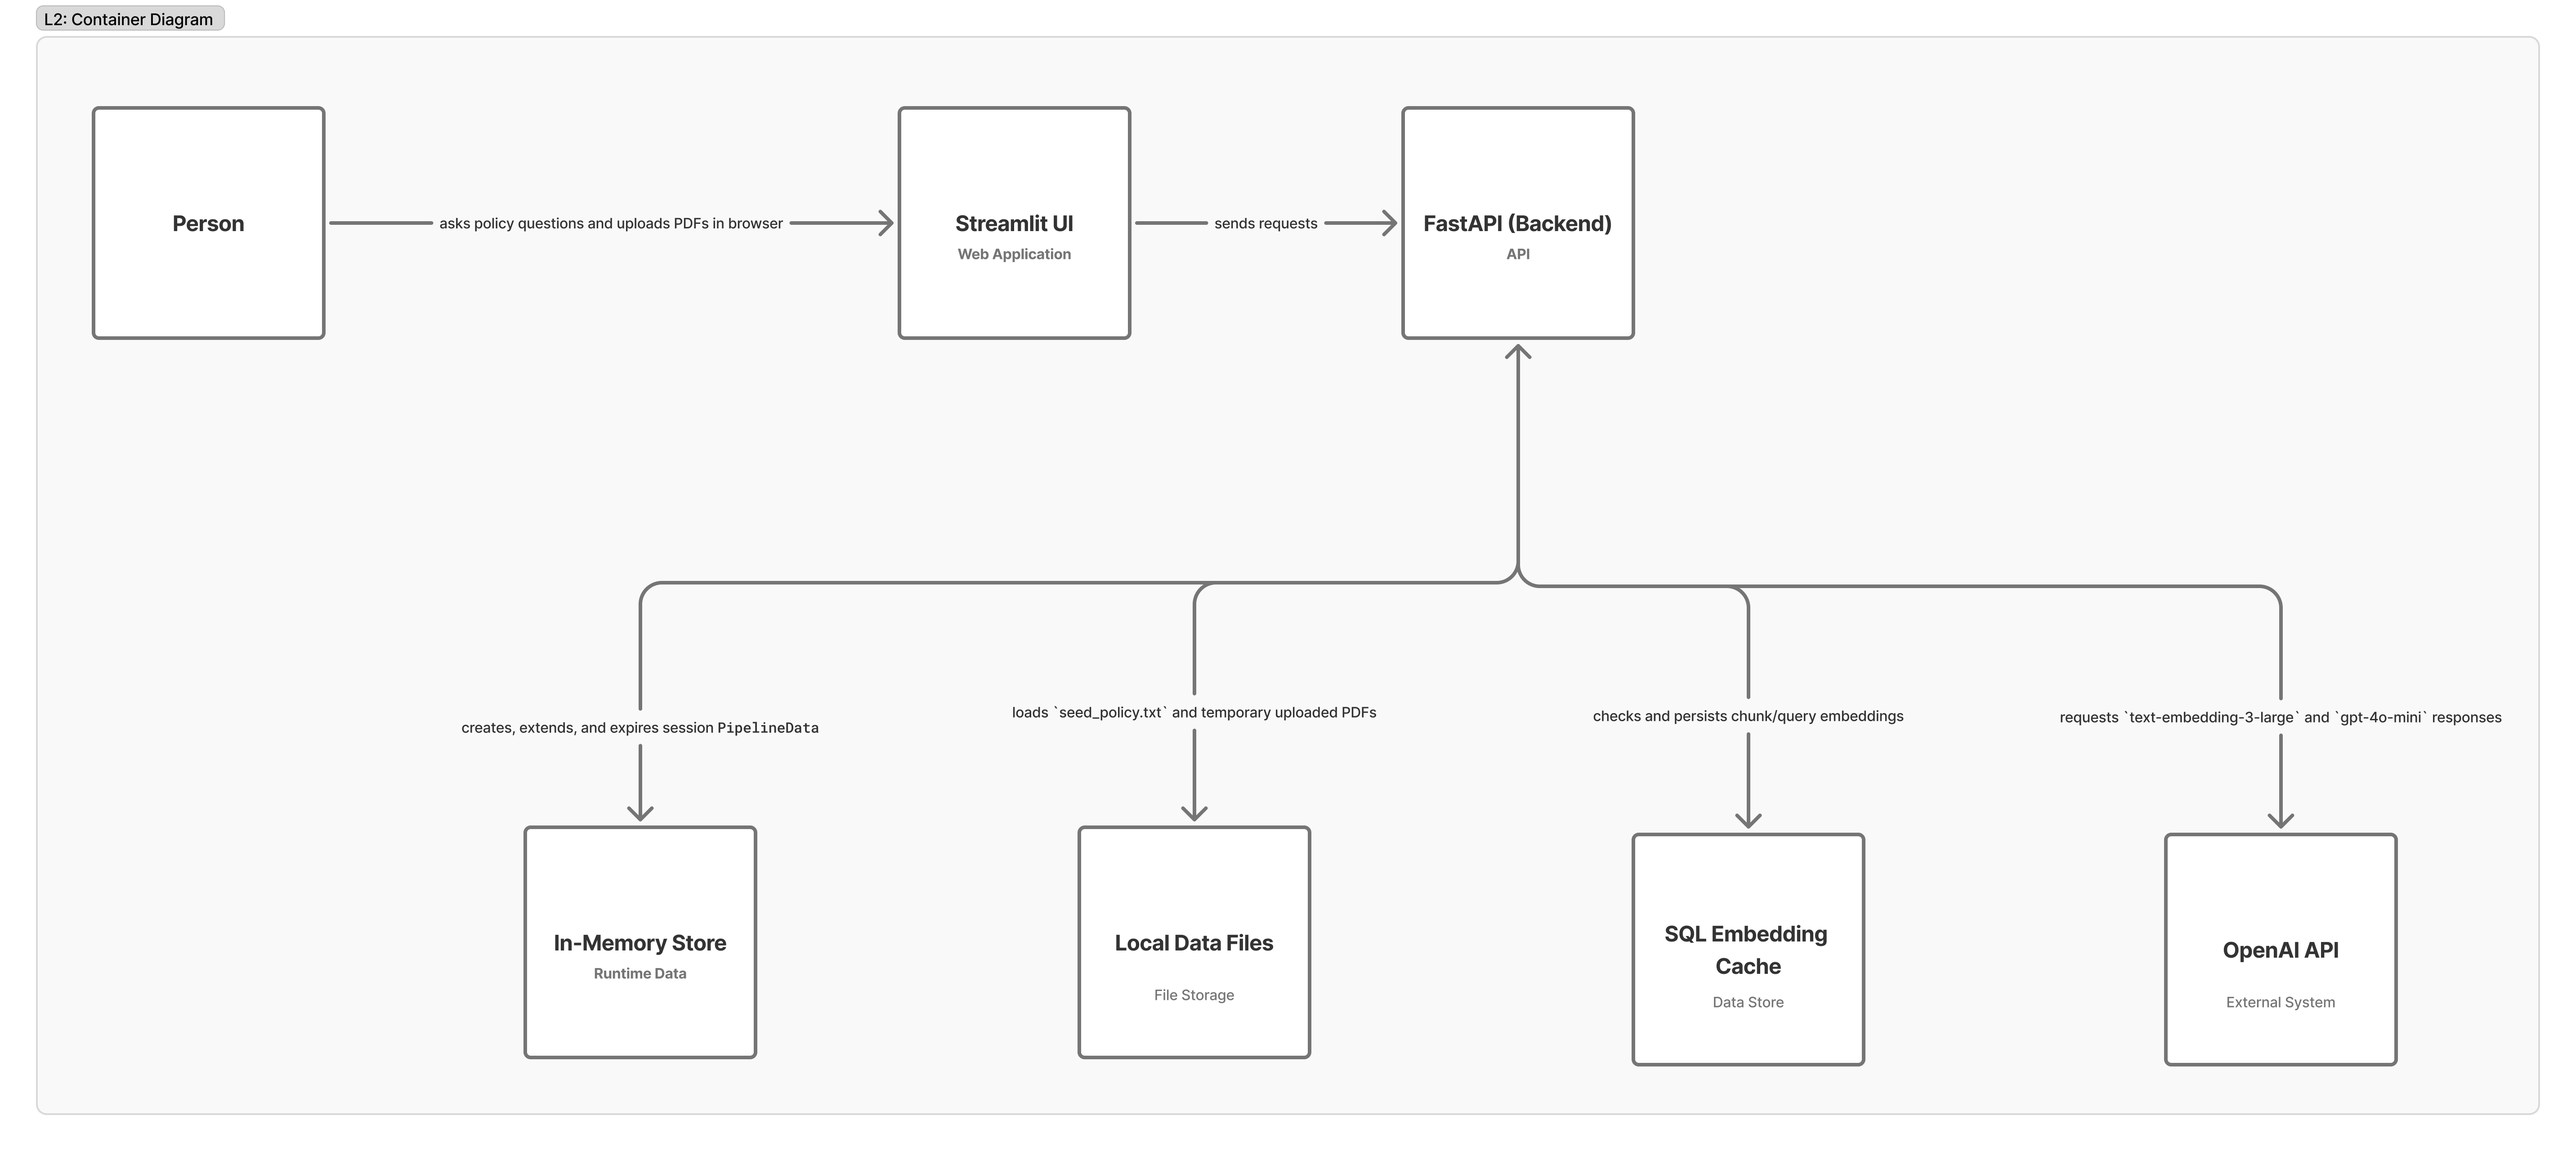
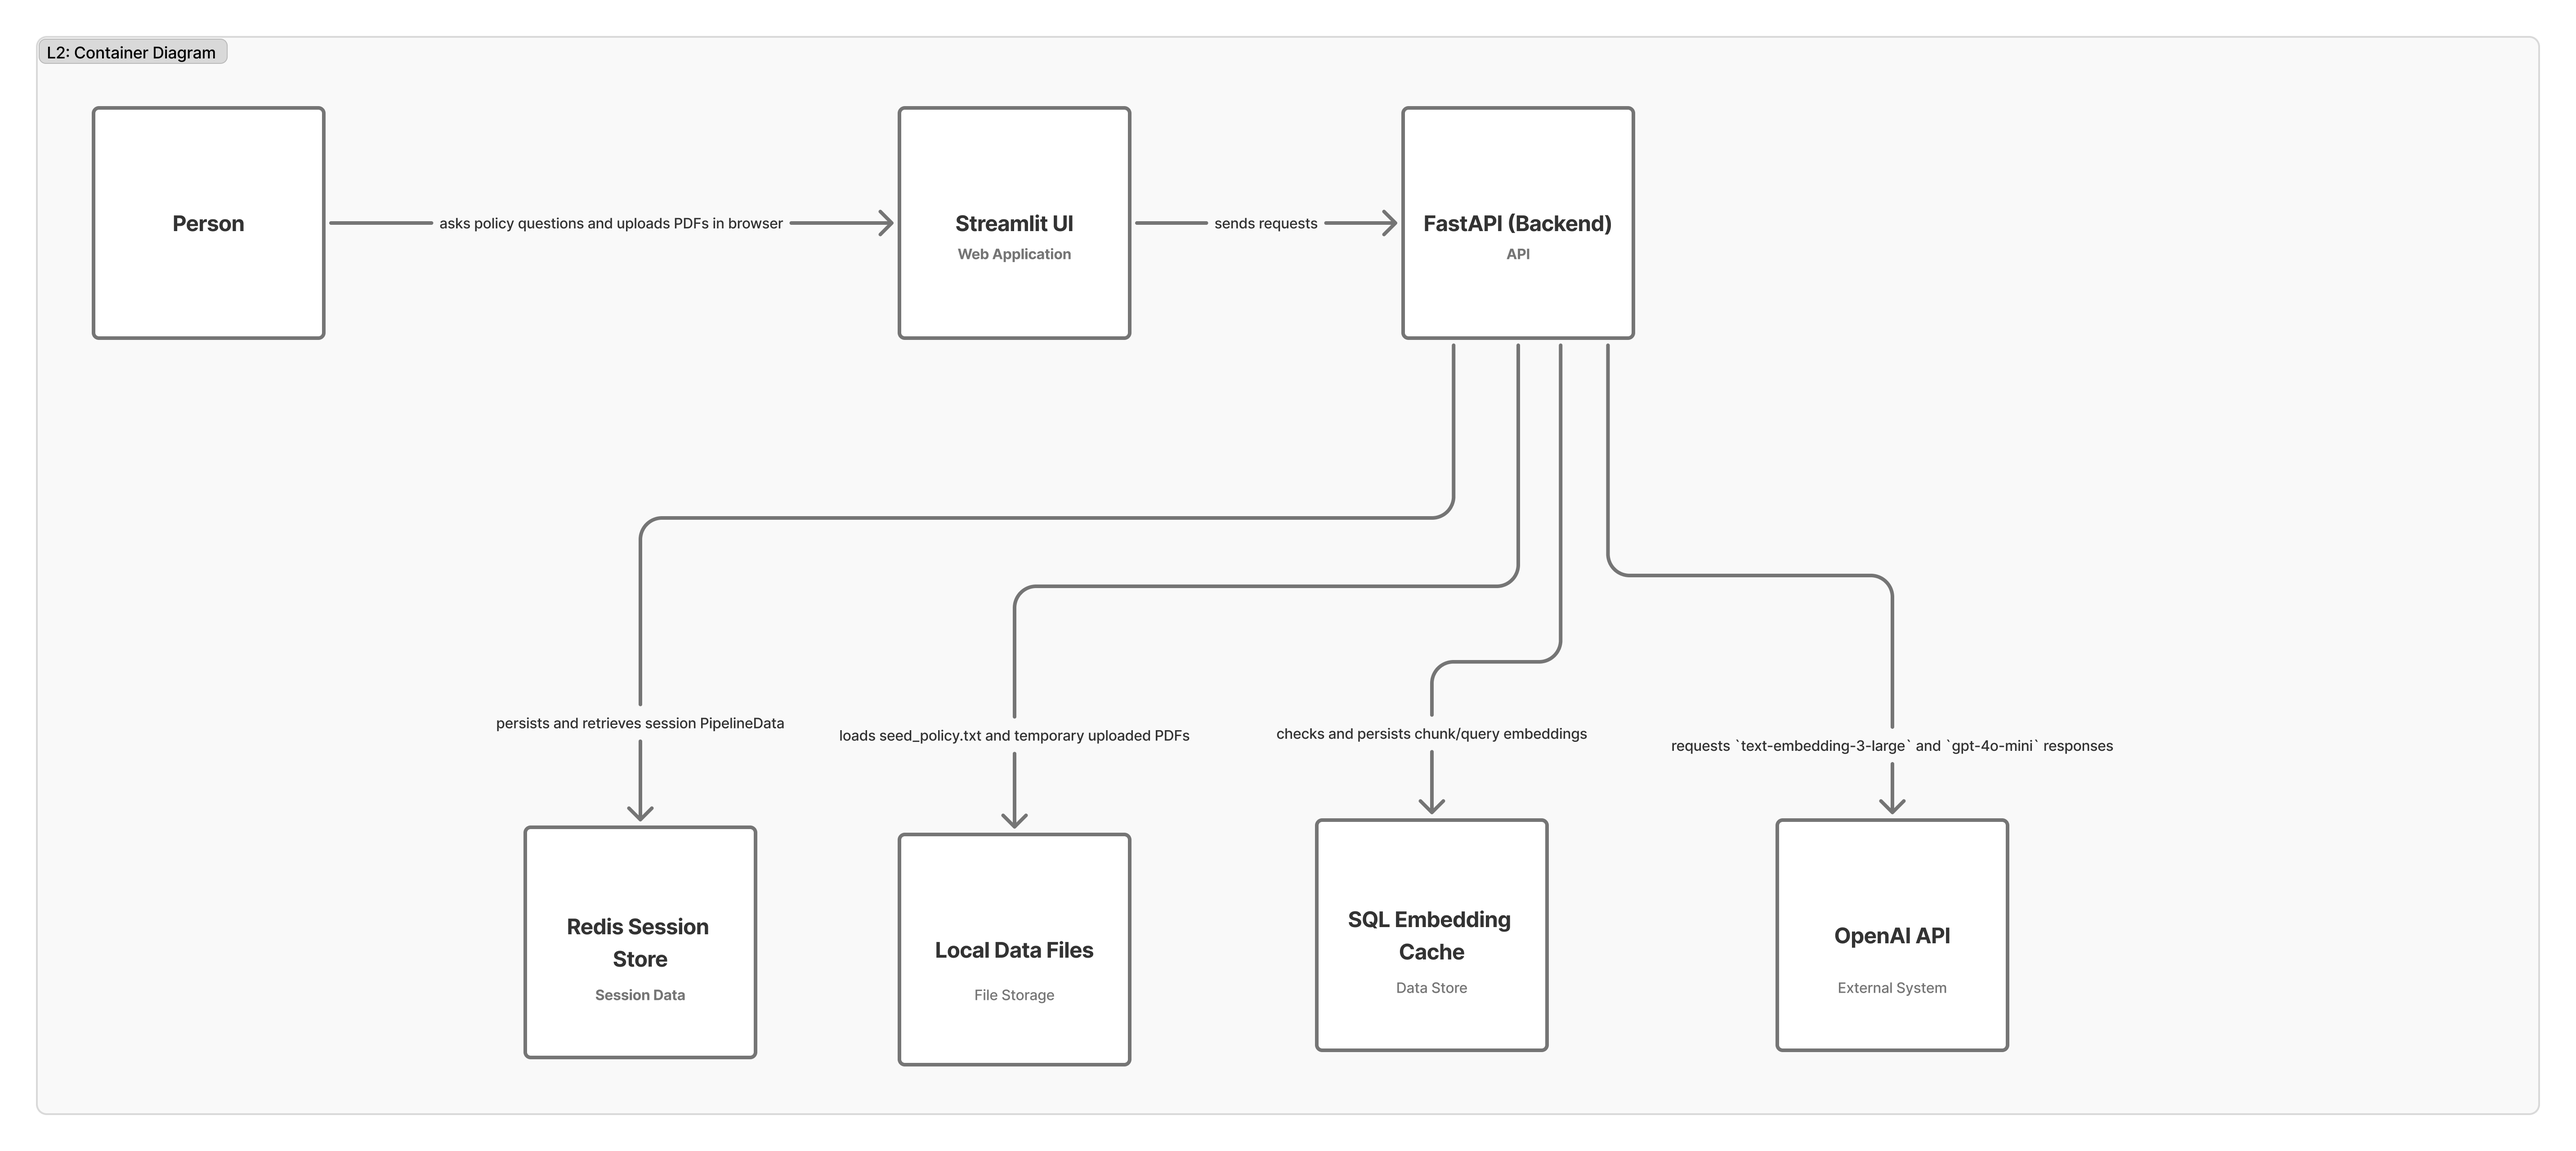
update architecture photos + readme

diff --git a/README.md b/README.md
@@ -2,7 +2,7 @@
 
 [![CI](https://github.com/BohdanChuprynka/Policy-RAG/actions/workflows/ci.yml/badge.svg)](https://github.com/BohdanChuprynka/Policy-RAG/actions/workflows/ci.yml)
 
-A hybrid Retrieval-Augmented Generation (RAG) assistant that turns policy documents into a practical decision tool — ask a question in plain language, get a grounded, citation-backed answer.
+**[Live Demo](https://frontend-production-7bfc.up.railway.app/)** · A hybrid Retrieval-Augmented Generation (RAG) assistant that turns policy documents into a practical decision tool — ask a question in plain language, get a grounded, citation-backed answer.
 
 ---
 
